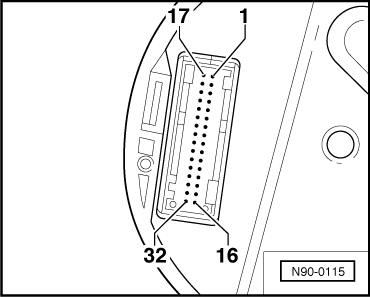
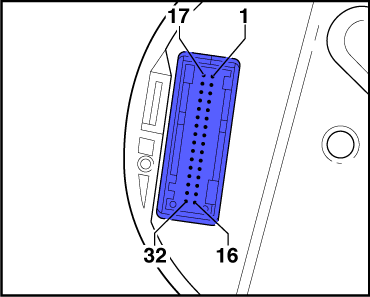
More work on cluster article

Changed region(s): [[0.4162, 0.1515, 0.6541, 0.7576], [0.7135, 0.8182, 0.9811, 0.9697]]

diff --git a/_content/posts/2023-08-23-cluster-diags.md b/_content/posts/2023-08-23-cluster-diags.md
@@ -1,44 +1,52 @@
 ---
-title:  "Display car diagnostics and graphics on my VW Golf 4 cluster"
+title:  "Display car diagnostics on a Volkswagen instruments cluster"
 tags: [electronics]
 ---
 
-I had this project idea in my head for a while now: show custom text on my 2001 VW Golf cluster. My initial idea was to show the current song playing on my phone, but then I found Alexander Grau's [blog post](http://grauonline.de/wordpress/?p=74) that gave me both the idea and the code for what I should display instead: car parameters read from various car modules.
+I had this project idea in my head for a while now: show custom text on my 2001 VW Golf instrument cluster. My initial idea was to show the current song playing on my phone, but then I found Alexander Grau's [blog post](http://grauonline.de/wordpress/?p=74) that gave me both the idea and the code for what I should display instead: car parameters read from various car modules.
 
 ## The Circuit
 
-One thing I wanted to make different from what Alexander did is not having to break a VAG-COM cable (that I didn't have in the first place) to get access to the `K-line` with my Arduino. Luckily, I found this nice schematic of a VAG-COM cable on a VW forum :
+One thing I wanted to make different from what Alexander did is not having to break a VAG-COM cable to get access to the `K-line` with my Arduino. Luckily, I found this nice schematic of a VAG-COM cable on a VW forum :
 
-![Diagram of a VAG-COM cable showing the connection between a CH340T chip on the left and the LM339 chip on the right](/assets/images/cluster/cable-diagram.gif)
+![Electrical schematic of a VAG-COM cable showing the connection between a CH340T chip on the left and the LM339 chip on the right](/assets/images/cluster/cable-schematic.gif)
 
 I need the right-side half of this circuit to convert the `12V` logic of the car's `K-line` to `5V` logic needed for the Arduino. The only components needed are the LM339 and some common resistors.
 
-Here is how I connected used the LM339 to connect the car's `K-line` to Arduino:
+Here is the relevant part that I extracted from the VAG-COM cable schematic, and hopefully simplified it a little:
 
-(ADD IMAGE HERE)
+![Simplified electrical schematic showing only the relevant part of the VAG-COM cable schematic](/assets/images/cluster/simple-schematic.png)
 
-I don't think I need the `K-line2` connection, as all the communication seems to be done using the `K-line`, but I left it there for now until I figure out what's used for.
+I don't think I need the `K-line2` connection, as all the communication seems to be done using the `K-line`.
 
 ## Workbench
 
 Of course, I was not gonna sit in the car to test all this, so I had to find a way to test this in the comfort of my house.
 
-Luckily, I found out really quickly that the cluster works perfectly separated from the car. It only needs 12V on a few pins and we can read its `K-line` as if it were in the car. So I bought a cheap Passat B5.5 cluster, which is compatible with Golf 4, to have something to fiddle with.
+Luckily, I found out really quickly that the cluster works perfectly separated from the car. It only needs 12V on a few pins and I could communicate with it as if it were in the car. So I bought a cheap Passat B5.5 cluster, which is similar to the one I have on my Golf 4, to have something to fiddle with.
 
 To power up the cluster I only had to make the following connections to the cluster's blue connector:
 
-|  |  |
-| ----------- | ------- |
-| <ul><li>pin 1 and 23 to 12V</li><li>pin 24 to GND</li></ul> | <img alt="Diagram showing the layout of the cluster's blue connector" class="sideImage" src="/assets/images/cluster/blue-connector.png" /> |
+ - pin 1 and 23 to 12V
+ - pin 24 to GND
+
+![Back of the cluser, focused on the blue connector, showing pin number 1 in the top-right position, and pin 32 in the bottom-left position](/assets/images/cluster/blue-connector.png)
+
 
 [Here](https://gist.github.com/surdu/f1fda10304ec736ab188c04226ff0140#file-cluster-blue-connector) you can find the descriptions of all the pins of the cluster's blue connector.
 
 To make sure everything is working fine, I also connected a VAG-COM cable to the cluster by making the following connections to the cable's pins:
 
-|  |  |
-| ----------- | ------- |
-| <ul><li>pin 16 to 12V</li><li>pin 4 and 5 to GND</li><li>pin 7 to cluster's blue connector pin 25</li></ul> | <img alt="Diagram showing the OBD2 connector pinout" class="sideImage" src="/assets/images/cluster/obd2-pinout.png" /> |
+ - pin 16 to 12V
+ - pin 4 and 5 to GND
+ - pin 7 to cluster's blue connector pin 25
+
+![Diagram of the OBD2 conector, showing pin number 1 in the top-left position and pin 16 in the bottom-right position](/assets/images/cluster/obd2-pinout.png)
 
 [Here](https://gist.github.com/surdu/f1fda10304ec736ab188c04226ff0140#file-obd2) you can find the descriptions of all the pins of the OBD2 connector.
 
 Having the OBD2 connection to the cluster allowed me to use [VCDS](https://www.ross-tech.com/vag-com/) to connect to the cluster from my computer to make sure the data transfer works correctly.
+
+## Software
+
+
